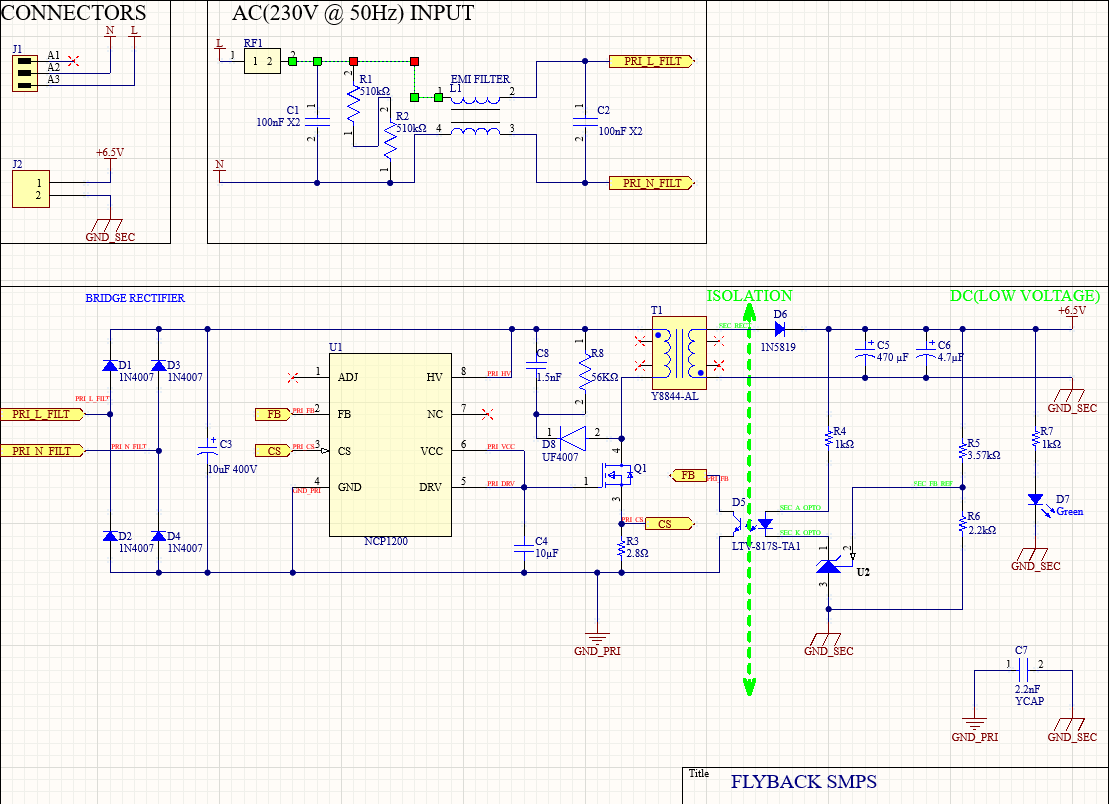
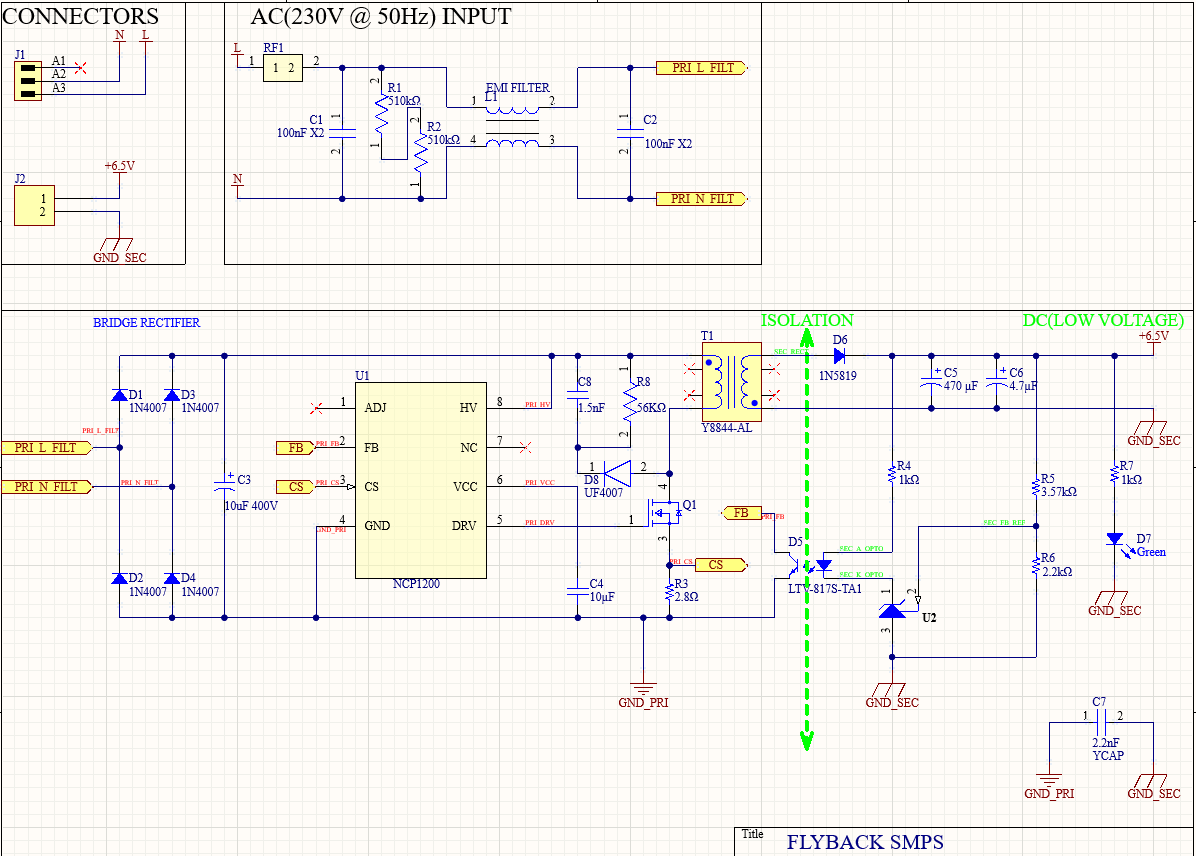
update

diff --git a/README.md b/README.md
@@ -30,8 +30,8 @@ The input connector (J1) features a 3-pin configuration where Pin 3 is designate
 
 ### 2. EMI Management
 To comply with electromagnetic compatibility standards, the design includes:
-- Input Pi-Filter: Common Mode Choke (L1) and X2 Capacitor (C1) to reduce conducted emissions.
-- Y-Capacitors (C2, C7): Strategically placed to provide a low-impedance path for switching noise across the isolation barrier.
+- Input Pi-Filter: Common Mode Choke (L1) and X2 Capacitor (C1,C2) to reduce conducted emissions.
+- Y-Capacitors (C7): Strategically placed to provide a low-impedance path for switching noise across the isolation barrier.
 
 ### 3. Efficiency and BOM Optimization
 - NCP1200 Benefits: By using the NCP1200's internal high-voltage current source for startup, the design eliminates the need for an auxiliary transformer winding, significantly reducing transformer complexity and cost.
